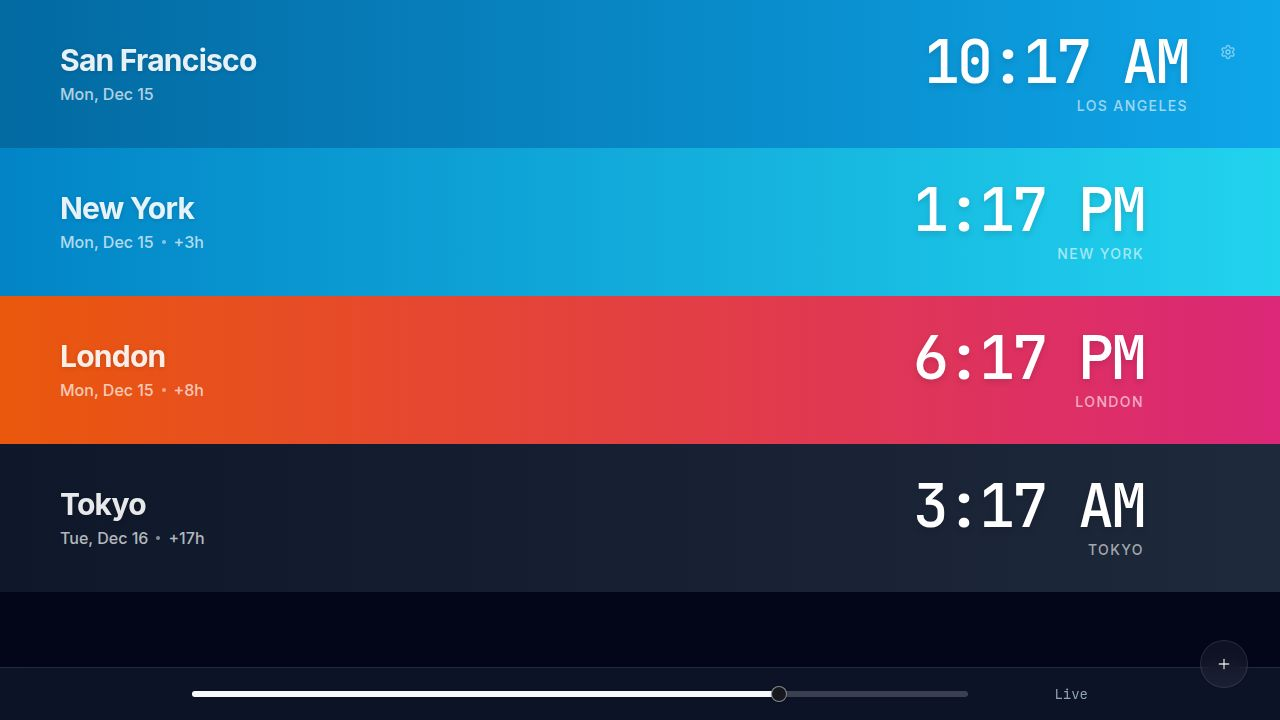
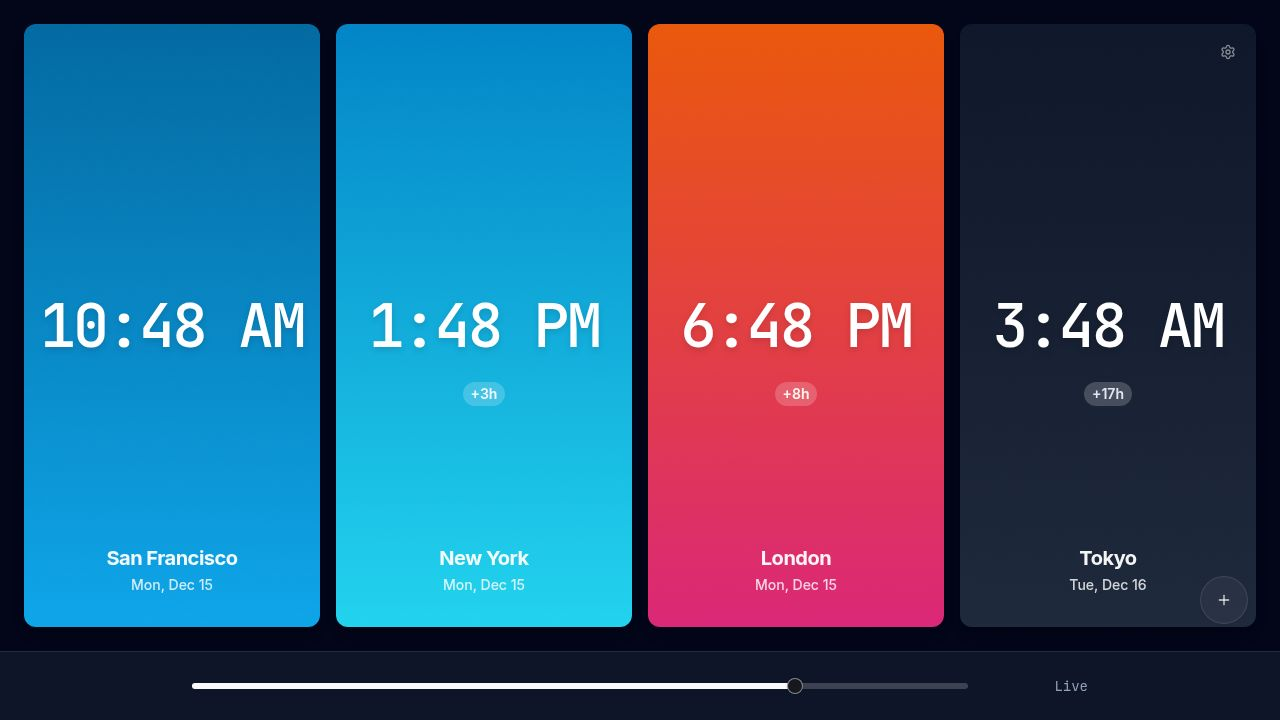
Ensure times align perfectly across all timezone cards
Adjusted layout to use absolute positioning for time and footer content, allowing for text wrapping and consistent vertical alignment across all ZoneRow components.

Replit-Commit-Author: Agent
Replit-Commit-Session-Id: 51a5bd55-27c6-4fa9-a076-305dff4a42ee
Replit-Commit-Checkpoint-Type: full_checkpoint
Replit-Commit-Event-Id: 26978273-822c-4f03-b8bc-0bd557e3b2ab
Replit-Commit-Screenshot-Url: https://storage.googleapis.com/screenshot-production-us-central1/13cc5516-d237-49a3-bf90-d868238ce4bb/51a5bd55-27c6-4fa9-a076-305dff4a42ee/6uYWMVl
Replit-Helium-Checkpoint-Created: true

diff --git a/client/src/components/ZoneRow.tsx b/client/src/components/ZoneRow.tsx
@@ -40,13 +40,13 @@ export const ZoneRow = ({ zone, referenceTime, isHome, isPlanning, timeFormat }:
     >
       <div 
         className={cn(
-          "h-full flex flex-col p-4 transition-all duration-300 select-none grain-texture rounded-xl shadow-lg",
+          "h-full relative transition-all duration-300 select-none grain-texture rounded-xl shadow-lg overflow-hidden",
           "hover:brightness-110 hover:shadow-xl"
         )}
         style={gradientStyle}
       >
         {/* Top Controls (Drag + Actions) */}
-        <div className="absolute top-2 right-2 flex gap-1 opacity-0 group-hover:opacity-100 transition-opacity z-20">
+        <div className="absolute top-2 right-2 flex gap-1 opacity-0 group-hover:opacity-100 transition-opacity z-30">
             {!isHome && (
               <Button
                 variant="ghost"
@@ -75,8 +75,8 @@ export const ZoneRow = ({ zone, referenceTime, isHome, isPlanning, timeFormat }:
             </div>
         </div>
 
-        {/* Content: Time (Centered, with Offset floating below) */}
-        <div className="flex-1 flex flex-col items-center justify-center z-10 relative">
+        {/* Content: Time (Absolute Center) */}
+        <div className="absolute inset-0 flex flex-col items-center justify-center z-10 pointer-events-none">
           <div className="text-3xl md:text-5xl lg:text-6xl font-mono font-medium text-white drop-shadow-md tracking-tighter tabular-nums text-center">
             {formatTimeDisplay(localTime, timeFormat === '24')}
           </div>
@@ -87,9 +87,9 @@ export const ZoneRow = ({ zone, referenceTime, isHome, isPlanning, timeFormat }:
           )}
         </div>
 
-        {/* Footer: City Name & Date (Bottom Aligned) */}
-        <div className="flex flex-col items-center text-center mt-2 space-y-1">
-          <h2 className="text-lg md:text-xl font-bold tracking-tight text-white/95 leading-tight truncate w-full px-2">
+        {/* Footer: City Name & Date (Absolute Bottom) */}
+        <div className="absolute bottom-0 left-0 right-0 p-6 pb-8 flex flex-col items-center text-center space-y-1 z-20 pointer-events-none">
+          <h2 className="text-lg md:text-xl font-bold tracking-tight text-white/95 leading-tight w-full px-2 line-clamp-2">
             {zone.label}
           </h2>
           <div className="text-xs md:text-sm font-medium text-white/80">
